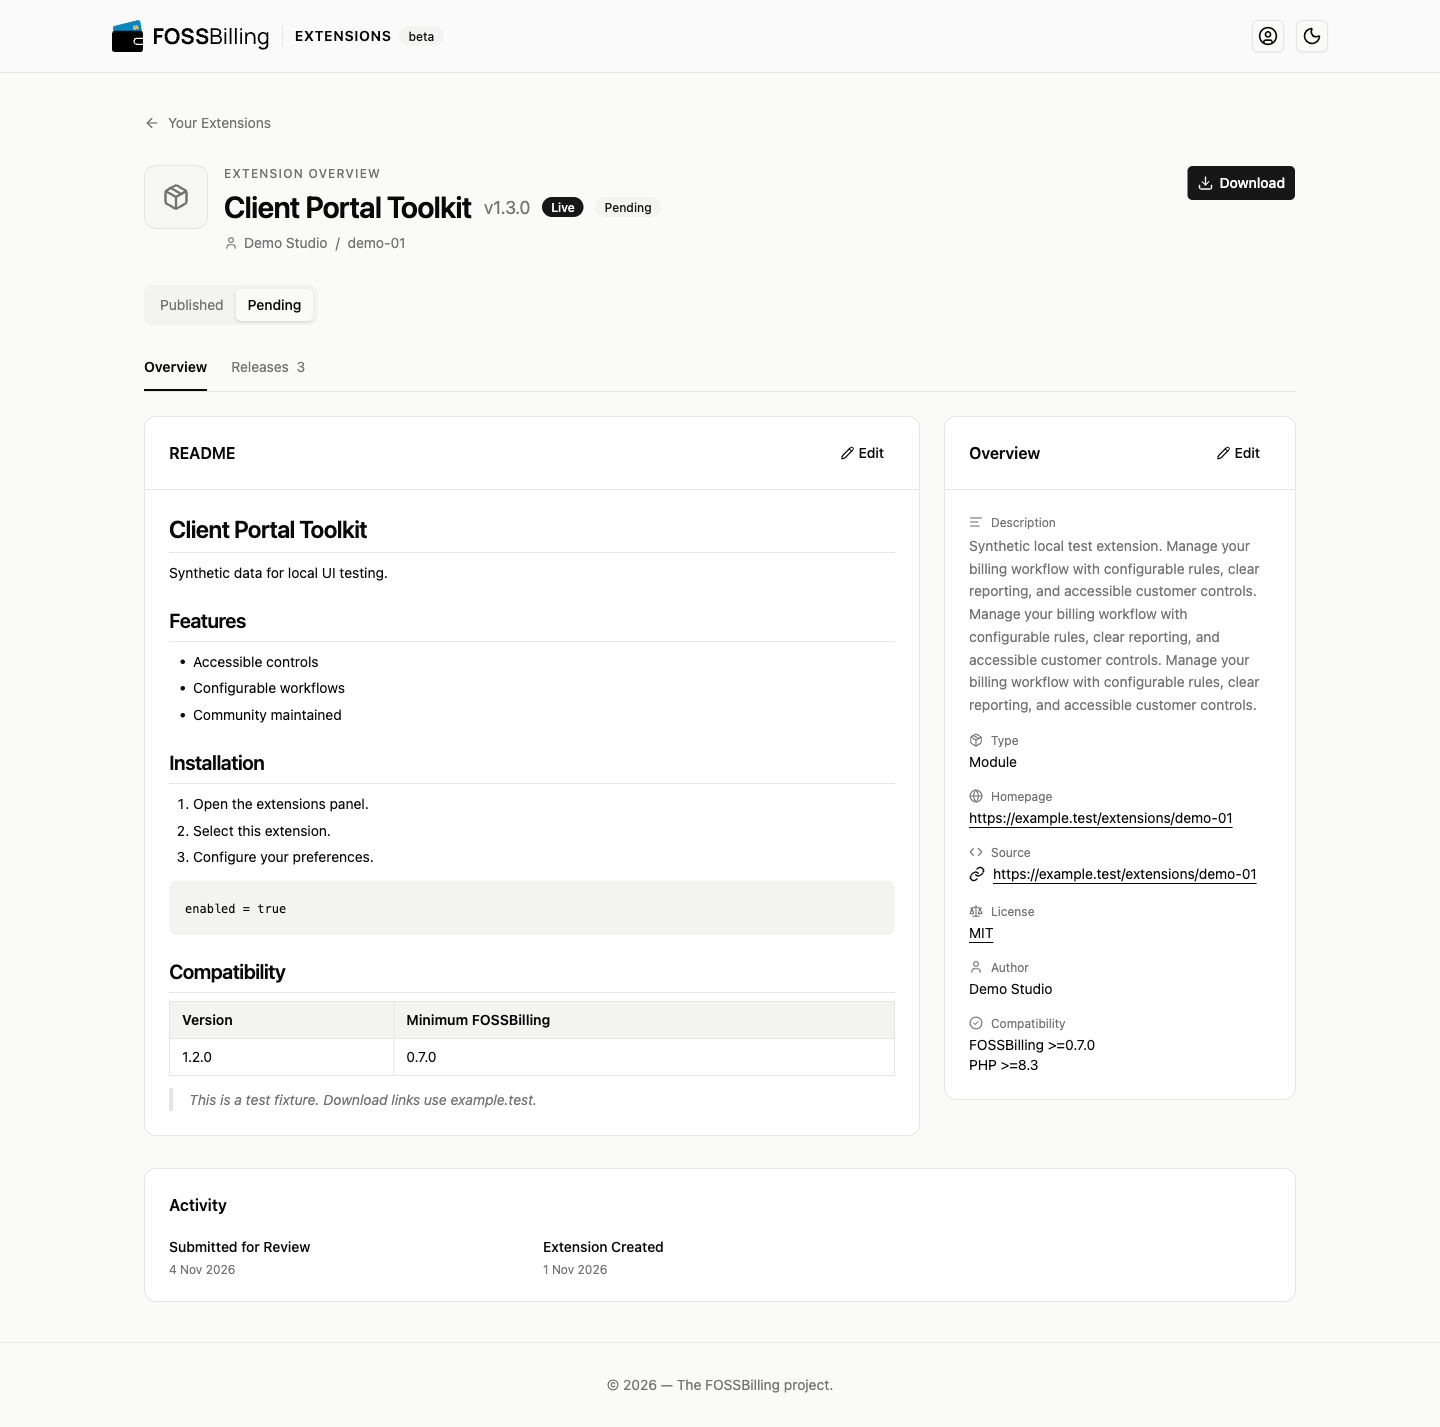
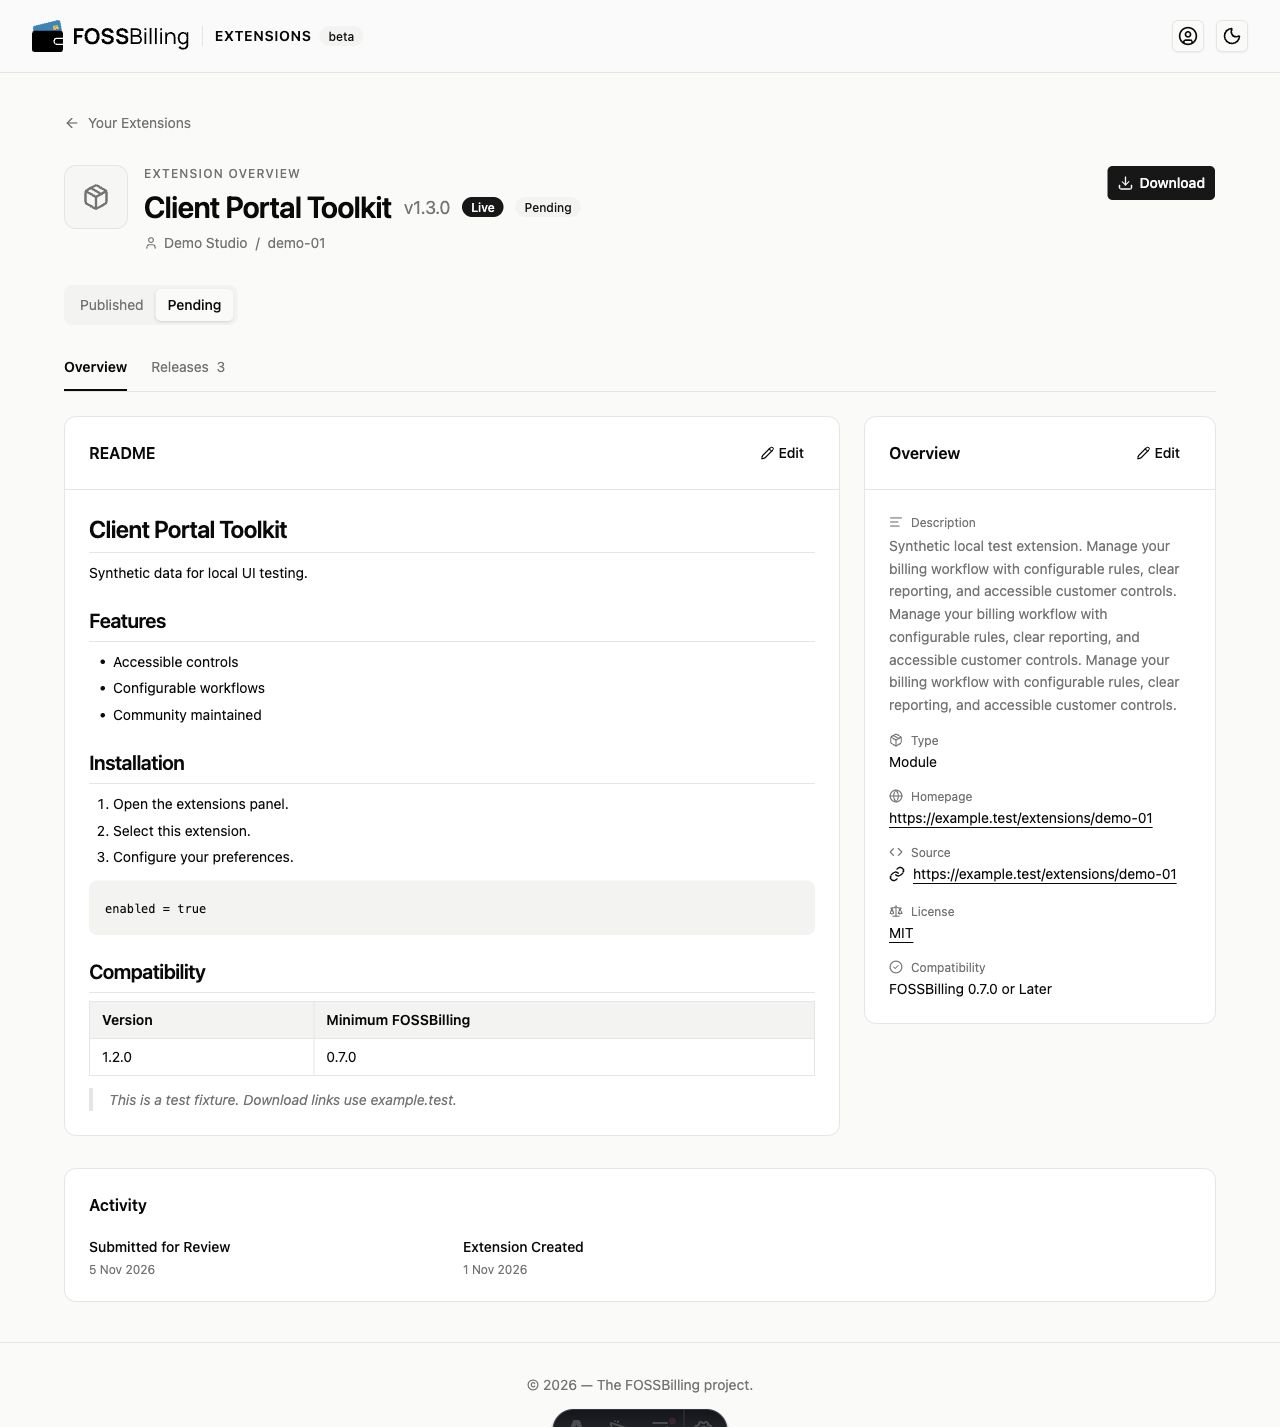
Manage compatibility with extension releases

diff --git a/test/extension-draft.test.ts b/test/extension-draft.test.ts
@@ -244,7 +244,7 @@ describe('extension drafts', () => {
       ExtensionValidationError,
     );
   });
-  it('does not rewrite release requirements when editing only the overview', () => {
+  it('derives overview compatibility from releases without rewriting their requirements', () => {
     const requires = { fossbilling: '^0.8.9 || ^1.0', php: '>=8.3 <9' };
     const manifest = { ...base, requires };
     const result = applyExtensionDraft(
@@ -260,7 +260,7 @@ describe('extension drafts', () => {
         },
       }),
     );
-    expect(result.requires).toEqual(requires);
+    expect(result.requires).toEqual(base.releases[0].requires);
     expect(result.releases).toEqual(base.releases);
   });
   it('keeps overview requirements aligned with the latest release, including inherited PHP', () => {
@@ -359,21 +359,24 @@ describe('draft configuration embedded in HTML', () => {
 
 describe('manifest fields in section drafts', () => {
   it('preserves opaque requirements and author attribution across unrelated edits', () => {
+    const requires = {
+      fossbilling: '^0.8.9 || ^1.0',
+      php: '>=8.3 <9',
+      modules: { branding: '^1.2' },
+    };
     const manifest = {
       ...base,
       author: { name: 'Package Author', url: 'https://author.example.test' },
-      requires: {
-        fossbilling: '^0.8.9 || ^1.0',
-        php: '>=8.3 <9',
-        modules: { branding: '^1.2' },
-      },
+      requires,
+      releases: base.releases.map((release) => ({ ...release, requires })),
     };
     const result = applyExtensionDraft(
       manifest,
       draft({ readme: { readme: '# Revised' } }),
     );
     expect(result.author).toEqual(manifest.author);
-    expect(result.requires).toEqual(manifest.requires);
+    expect(result.requires).toEqual(requires);
+    expect(result.releases).toEqual(manifest.releases);
   });
   it('saves release-specific requirements without rewriting constraints', () => {
     const release = releaseFromFields({

diff --git a/src/scripts/extension-workspace.ts b/src/scripts/extension-workspace.ts
@@ -142,6 +142,7 @@ export function initExtensionWorkspace() {
     const current = content();
     if (headerName) headerName.textContent = current.name || fallbackName;
     const latest = latestRelease(current.releases);
+    const requires = latest?.requires ?? current.requires;
     const version = latest?.tag ?? current.version;
     const headerVersion = document.querySelector<HTMLElement>(
       '[data-extension-version]',
@@ -212,11 +213,9 @@ export function initExtensionWorkspace() {
     text(
       '[data-preview-requirements]',
       [
-        `FOSSBilling ${compatibilityLabel(current.requires.fossbilling)}`,
-        ...(current.requires.php
-          ? [`PHP ${compatibilityLabel(current.requires.php)}`]
-          : []),
-        ...Object.entries(current.requires.modules ?? {}).map(
+        `FOSSBilling ${compatibilityLabel(requires.fossbilling)}`,
+        ...(requires.php ? [`PHP ${compatibilityLabel(requires.php)}`] : []),
+        ...Object.entries(requires.modules ?? {}).map(
           ([id, constraint]) => `${id}: ${constraint}`,
         ),
       ].join('\n'),

diff --git a/src/lib/extension-draft.ts b/src/lib/extension-draft.ts
@@ -238,7 +238,6 @@ export function applyExtensionDraft(
         name: required(raw, 'author_name', 'Author name'),
         url: url(raw, 'author_url', 'author URL', true),
       };
-      result.requires = buildRequirements(toFormData(raw));
       if (
         [
           'source_url',
@@ -307,10 +306,8 @@ export function applyExtensionDraft(
   if (Object.keys(value.sections).length || value.releases !== undefined) {
     const latest = latestRelease(result.releases);
     if (latest) {
-      // The overview describes the latest package. Keep its requirements in
-      // sync with release edits, including removal of an extra PHP constraint.
-      if (value.releases !== undefined)
-        result.requires = structuredClone(latest.requires);
+      // Keep the manifest aligned with its latest release.
+      result.requires = structuredClone(latest.requires);
       result.version = latest.tag.replace(/^v(?=\d)/, '');
       result.download_url = latest.download_url;
     }
